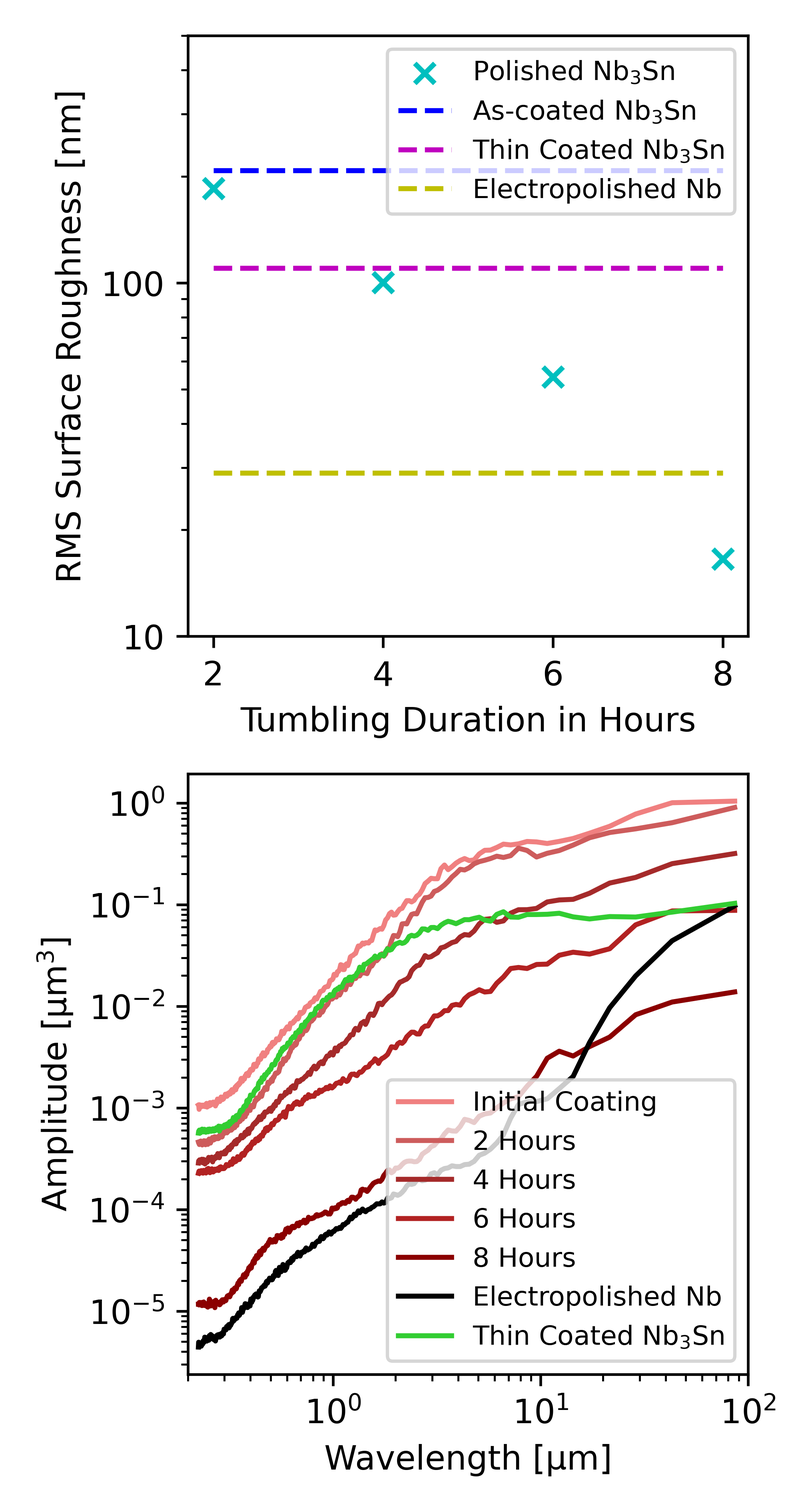
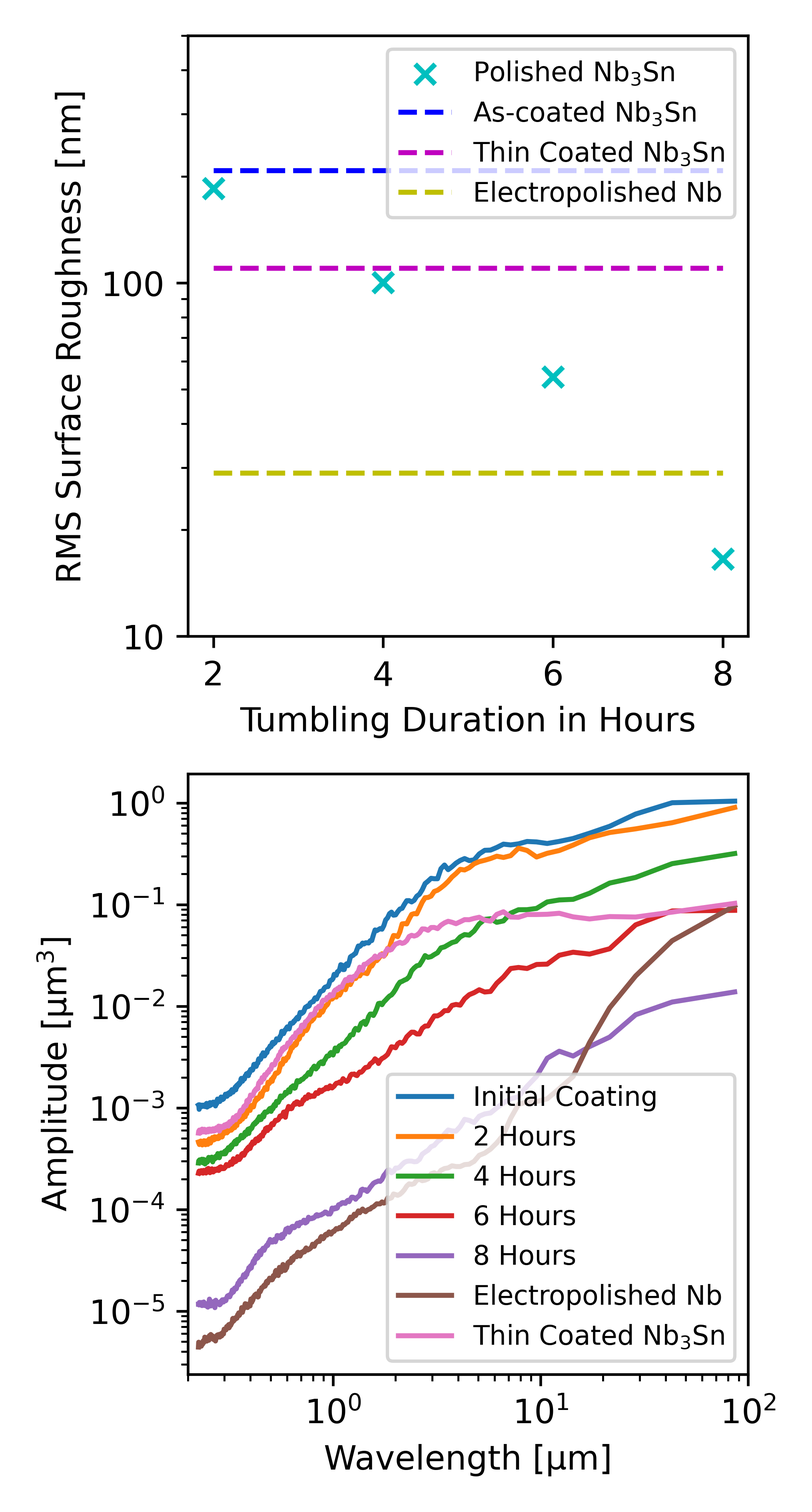
changed figure 3 colors and fixed spelling errors

diff --git a/src/doc.tex b/src/doc.tex
@@ -32,13 +32,13 @@ In this study we will show a new method of polishing for Nb\textsubscript{3}Sn c
 
 \section{Introduction}%
 \label{sec:Introduction}%
-Superconducting radiofrequency (SRF) cavities are an essential component of particle accelerators used in various fields of science and industry, including high-energy physics, material science, and medical isotope production\cite{boulware2019high}. These cavities accelerate charged particles to very high energies and can achieve higher accelerating gradients at continous operation than normal conducting cavities.
+Superconducting radiofrequency (SRF) cavities are an essential component of particle accelerators used in various fields of science and industry, including high-energy physics, material science, and medical isotope production\cite{boulware2019high}. These cavities accelerate charged particles to very high energies and can achieve higher accelerating gradients at continuous operation than normal conducting cavities.
 
-The performance of superconducting radio-frequency cavities is determined by the superconducting properties of the surface layer of the cavity. The low-temperature superconductor Nb\textsubscript{3}Sn has a higher superconducting transition temperature (T\textsubscript{c}), 18~K compared to 9~K, and a higher super-heating magnetic field (H\textsubscript{sh}), around 440 mT compared to 250~mT for the more commonly used niobium\cite{liarte2017theoretical, catelani2008temperature, lin2012effect, kubo2020superfluid}. SRF cavities coated with a layer of Nb\textsubscript{3}Sn can, therefore, achieve a much higher accelerating field, up to 100~MV/m in theory, and have a lower surface resistance than Nb SRF cavities at higher temperatures allowing for cavity operation at 4~K. Whereas Nb cavities are typically operated at 2~K e.g. the LCLS-II cryomodules\cite{galayda2018lcls}. These properties make Nb\textsubscript{3}Sn SRF cavities a promising research topic for future accelerators such as high-energy linacs or small-scale industrial accelerators.
+The performance of superconducting radio-frequency cavities is determined by the superconducting properties of the surface layer of the cavity. The low-temperature superconductor Nb\textsubscript{3}Sn has a higher superconducting transition temperature (T\textsubscript{c}), 18~K compared to 9~K, and a higher super-heating magnetic field (H\textsubscript{sh}), around 440~mT compared to 250~mT for the more commonly used niobium\cite{liarte2017theoretical, catelani2008temperature, lin2012effect, kubo2020superfluid}. SRF cavities coated with a layer of Nb\textsubscript{3}Sn can, therefore, achieve a much higher accelerating field, up to 100~MV/m in theory, and have a lower surface resistance than Nb SRF cavities at higher temperatures allowing for cavity operation at 4~K. Whereas Nb cavities are typically operated at 2~K e.g. the LCLS-II cryomodules\cite{galayda2018lcls}. These properties make Nb\textsubscript{3}Sn SRF cavities a promising research topic for future accelerators such as high-energy linacs or small-scale industrial accelerators.
 
-Nb\textsubscript{3}Sn cavities are typically manufactured by coating a Nb cavity with a thin film of Nb\textsubscript{3}Sn using Sn vapor-diffusion\cite{posen2017nb3sn, pudasaini2019growth, porter2018update}, exposing a Nb cavity to tin vapor at 1,100~°C to create Nb\textsubscript{3}Sn. The reaction forms a 2-3~µm thick Nb\textsubscript{3}Sn film with grains approximately 1~\unit{\micro\metre} large. The grains are faceted and the grain boundaries are thermally etched resulting in approximately 100-150~nm of surface roughness. 
+Nb\textsubscript{3}Sn cavities are typically manufactured by coating a Nb cavity with a thin film of Nb\textsubscript{3}Sn using Sn vapor-diffusion\cite{posen2017nb3sn, pudasaini2019growth, porter2018update}, exposing a Nb cavity to tin vapor at 1,100~°C to create Nb\textsubscript{3}Sn. The reaction forms a 2-3~µm thick Nb\textsubscript{3}Sn film with grains approximately 1~\unit{\micro\metre} large. The grains are faceted, and the grain boundaries are thermally etched resulting in approximately 100-150~nm of surface roughness. 
 
-Using the Sn vapor-diffusion coating technique\cite{posen2017nb3sn,pudasaini2019growth,eremeev2013development}, Nb\textsubscript{3}Sn cavities have only been able to reach a maximum accelerating gradient of 24~MV/m\cite{posen2021advances}, a result that was achieved using a thinner Nb\textsubscript{3}Sn coating which is smoother than the typical coating. However, this result has not been reproducible and the performance is lower than the theoretical maximum of Nb\textsubscript{3}Sn cavities.
+Using the Sn vapor-diffusion coating technique\cite{posen2017nb3sn,pudasaini2019growth,eremeev2013development}, Nb\textsubscript{3}Sn cavities have only been able to reach a maximum accelerating gradient of 24~MV/m\cite{posen2021advances}, a result that was achieved using a thinner Nb\textsubscript{3}Sn coating which is smoother than the typical coating. However, this result has not been reproducible, and the performance is lower than the theoretical maximum of Nb\textsubscript{3}Sn cavities.
 
 Surface roughness is thought to be one of the limiting factors of Nb\textsubscript{3}Sn SRF cavity performance. Surface roughness has been shown to be a cause of Q slope and quench in niobium cavities treated with buffered chemical polishing (BCP) due to sharp grain boundary steps.\cite{knobloch1999high, xu2016simulation} Simulations of the magnetic field near a typical Nb\textsubscript{3}Sn surface show that the magnetic field is increased by up to 60~percent in some areas compared to a smooth surface\cite{porter2016surface, kubo2015magnetic} and could be higher for particularly rough areas. By reducing the field enhancement caused by surface roughness, a corresponding increase in the cavity accelerating gradient can be expected. 
 
@@ -51,19 +51,19 @@ To circumvent these issues, we instead use a technique known as centrifugal barr
 \label{sec:samplestudy}%
 Since Nb\textsubscript{3}Sn is a relatively unexplored material, there are no established polishing parameters or abrasive materials to achieve a good surface finish. To allow for rapid iteration and microscopy surface analysis, we first perform polishing experiments on Nb\textsubscript{3}Sn samples. To evaluate the performance of CBP, the surface roughness of the polished samples is measured using confocal laser microscopy and the surface is analyzed using scanning and transmission electron microscopy (SEM and TEM). The material removal rate is measured using focused ion-beam tomography.
 
-The samples were prepared using the standard Nb\textsubscript{3}Sn coating procedure. 1~\unit{\centi\metre} disks are cut from a 4~\unit{\milli\metre} sheet of fine-grain, low RRR niobium. 100~\unit{\micro\metre} of material are removed using standard electropolishing\cite{saito2003development}, followed by 5~\unit{\micro\metre} of removal using cold EP leading to a root mean square surface roughness of 20~nm for the initial substrate.\cite{crawford2017extreme} The samples are coated with the standard FNAL coating procedure.\cite{posen2017nb3sn} This coating resulted in an approximately 3~\unit{\micro\metre} thick film with a grain size of 500~\unit{\nano\metre} and a surface roughness of 200~nm as shown in Fig.~\ref{fig:surfaceroughnessgraph}. The grain size of the Nb substrate had no effect on the film grain size.
+The samples were prepared using the standard Nb\textsubscript{3}Sn coating procedure. 1~\unit{\centi\metre} disks are cut from a 4~\unit{\milli\metre} sheet of fine-grain, low RRR niobium. 100~\unit{\micro\metre} of material are removed using standard electropolishing\cite{saito2003development}, followed by 5~\unit{\micro\metre} of removal using cold EP leading to a root-mean-square surface roughness of 20~nm for the initial substrate.\cite{crawford2017extreme} The samples are coated with the standard FNAL coating procedure.\cite{posen2017nb3sn} This coating resulted in an approximately 3~\unit{\micro\metre} thick film with a grain size of 500~\unit{\nano\metre} and a surface roughness of 200~nm as shown in Fig.~\ref{fig:surfaceroughnessgraph}. The grain size of the Nb substrate had no effect on the film grain size.
 %
 \subsection{Centrifugal Barrel Polishing}% 
 \label{subsec:CentrifugalBarrelPolishing}%
 Centrifugal barrel polishing (CBP) is another method used to polish SRF cavities utilizing an abrasive material to mechanically smooth the surface. Tumbling was first implemented for SRF cavities by KEK and Nomura Plating Co. in 1995\cite{higuchi1996investigation}. This method has been used to repair surface damage and to attain a very smooth surface in Nb SRF cavities\cite{cooper2012mirror, cooper2011centrifugal}. 
 
-As of yet, only very limited attempts to apply this technique to Nb\textsubscript{3}Sn cavities have been made. The technique uses a custom built tumbling machine that can fit up to 9-cell size 1.3~GHz cavities. When a cavity is mounted in the tumbling machine and filled with abrasive slurry, the rotating motion of the cavity accelerates the polishing media against the cavity surface at up to 59~\unit{\metre\per\square\second}. 
+As yet, only very limited attempts to apply this technique to Nb\textsubscript{3}Sn cavities have been made. The technique uses a custom-built tumbling machine that can fit up to 9-cell size 1.3~GHz cavities. When a cavity is mounted in the tumbling machine and filled with abrasive slurry, the rotating motion of the cavity accelerates the polishing media against the cavity surface at up to 59~\unit{\metre\per\square\second}. 
 
-The abrasive material determines the removal rate and minimum surface roughness attainable using CBP. Large-grit material is used to remove material quickly and smooth out large defects like pits and scratches while fine-grit material is used to microscopically smooth the surface. Since the roughness of as-coated Nb\textsubscript{3}Sn cavities is on the order of 100-200~nm, our experiments focus on using fine-grit materials. In this experiment, we use a colloidal nano-particle suspension, purchased from Allied High Tech Products Incorporated, as our abrasive material. 50~nm diameter alumina and 40~nm diameter silica nano-particles suspended in water were tested, but we found no discernible difference between the polishing characteristics of the two materials.
+The abrasive material determines the removal rate and minimum surface roughness attainable using CBP. Large-grit material is used to remove material quickly and smooth out large defects like pits and scratches while fine-grit material is used to microscopically smooth the surface. Since the roughness of as-coated Nb\textsubscript{3}Sn cavities is on the order of 100-200~nm, our experiments focus on using fine-grit materials. In this experiment, we use a colloidal nanoparticle suspension, purchased from Allied High Tech Products Incorporated, as our abrasive material. 50~nm diameter alumina and 40~nm diameter silica nanoparticles suspended in water were tested, but we found no discernible difference between the polishing characteristics of the two materials.
 
-Silicon containing ceramics, such as silica, are a major concern for contamination in the tin coating furnace, since they can release a significant amount of silicon at high temperatures into the furnace. Silicon also reacts with Nb\textsubscript{3}Sn to form to form poorly superconducting silicide phases. Alumina, in contrast, is thermally stable at higher temperatures. This is why alumina is typically used to electrically insulate wires such as thermocouples inside the furnace. For these reasons, the alumina abrassive particles are prefereable to avoid any risk of furnace contamination.
+Silicon containing ceramics, such as silica, are a major concern for contamination in the tin coating furnace, since they can release a significant amount of silicon at high temperatures into the furnace. Silicon also reacts with Nb\textsubscript{3}Sn to form poorly superconducting silicide phases. Alumina, in contrast, is thermally stable at higher temperatures. This is why alumina is typically used to electrically insulate wires such as thermocouples inside the furnace. For these reasons, the alumina abrasive particles are preferable to avoid any risk of furnace contamination.
 
-The nano-particle suspension was mixed with a large, soft material to act as a carrier. The purpose of the carrier material is to carry the nano-particles and to apply a force between them and the cavity surface. Two carrier materials were tested, 13~mm diameter wooden balls and 25~mm compressed wool cubes supplied by Congress Tools, Incorporated.
+The nanoparticle suspension was mixed with a large, soft material to act as a carrier. The purpose of the carrier material is to carry the nanoparticles and to apply a force between them and the cavity surface. Two carrier materials were tested, 13~mm diameter wooden balls and 25~mm compressed wool cubes supplied by Congress Tools, Incorporated.
 
 %
 \subsection{Coupon Cavity}%
@@ -120,7 +120,7 @@ The Nb\textsubscript{3}Sn samples were polished for different lengths of time ra
 
 By comparing the surface optical micrographs after different amounts of polishing shown in Fig.~\ref{fig:opticalsurfaceprofiles}, it is clear that material is preferentially removed from the highest point on the surface, causing the sharp peaks on the surface to be removed quickly while valleys are left untouched. The phenomenon is also clearly seen in SEM images of the samples shown in Fig.~\ref{fig:semimages} where the peaks on the grains can be seen to become smoother and then flat as more polishing is applied. This is different from EP, which preferentially smooths areas with high curvature including both peaks and valleys. Due to this different smoothing mechanism, surface roughness is minimized when the thickness of material removed is equal to the height difference between the highest and lowest point on the surface, which is around 1~µm. This is confirmed by the sample experiments, after 8~hours of polishing only the deepest valleys of the initial coating remain.
 
-The surface height maps are used to calculate the root mean square (RMS) surface roughness of the samples and is shown in Fig.~\ref{fig:surfaceroughnessgraph}. After 6~hours of polishing the surface roughness is comparable to the surface roughness of the well performing, thinly coated Nb\textsubscript{3}Sn coatings created at FNAL\cite{posen2021advances}. We also calculate the power spectral density (PSD) of the surface profiles. The PSD is an indicator of the surface roughness at different length scales, indicated by the wavelength\cite{xu2011enhanced, pudasaini2017surface}.
+The surface height maps are used to calculate the root-mean-square (RMS) surface roughness of the samples and is shown in Fig.~\ref{fig:surfaceroughnessgraph}. After 6~hours of polishing the surface roughness is comparable to the surface roughness of the well performing, thinly coated Nb\textsubscript{3}Sn coatings created at FNAL\cite{posen2021advances}. We also calculate the power spectral density (PSD) of the surface profiles. The PSD is an indicator of the surface roughness at different length scales, indicated by the wavelength\cite{xu2011enhanced, pudasaini2017surface}.
 
 This is verified by SEM micrographs of a thinly coated sample and a polished sample shown in Fig.~\ref{fig:semimages}A and D. After 8~hours of polishing, the surface roughness is comparable to a typical Nb surface after EP. This level of smoothness has never been achieved for Nb\textsubscript{3}Sn cavities until now. At this level of surface roughness, the performance degradation caused by field enhancement due to surface roughness should be greatly reduced.
 
@@ -148,7 +148,7 @@ The surface of the polished samples was analyzed using SEM and TEM to look for s
 \begin{figure}[t]%
 \centering%
 \includegraphics[width=0.8\columnwidth]{../doc/figs/Sample_Surface_Scratches.png}%
-\caption{SEM micrograph showing a Nb\textsubscript{3}Sn sample polished for 30 hours using wooden spheres and a colloidal abrasive suspension. Nb\textsubscript{3}Sn films polished using wooden spheres show microscopic scratches and cracks on the surface. A square hole is cut into the surface, visible in the top micrograph to expose a cross section of a crack. The cross section shows that the cracks penetrate deep into the film.}%
+\caption{SEM micrograph showing a Nb\textsubscript{3}Sn sample polished for 30 hours using wooden spheres and a colloidal abrasive suspension. Nb\textsubscript{3}Sn films polished using wooden spheres show microscopic scratches and cracks on the surface. A square hole is cut into the surface, visible in the top micrograph to expose a cross-section of a crack. The cross-section shows that the cracks penetrate deep into the film.}%
 \label{fig:samplesurfacescratches}%
 \end{figure}
 
@@ -204,17 +204,17 @@ After the polishing is applied, the cavity exhibits Q-slope (the quality factor 
 \label{sec:Discussion}%
 Using mechanical polishing, we are able to produce smooth Nb\textsubscript{3}Sn films with surface roughness less than 20~nm. This level of surface roughness has thus far been impossible to achieve using existing methods.\cite{posen2021advances,pudasaini2018studies,pudasaini2017post,hu2019reducing} We have also shown that this smoothing can be achieved with only a few hundred nanometers of material removal, much less than what would be required for chemical polishing methods.
 
-This study also shows that mechanical polishing can be used to improve the performance of Nb\textsubscript{3}Sn cavities when used in conjunction with a recoating procedure. There are several reasons why polishing a Nb\textsubscript{3}Sn might lead to performance improvements. The most obvious is the reduction in surface roughness, which reduces the field enhancement factor around sharp edges. This should lead to an decrease in Q-slope and an increase in quench field\cite{knobloch1999high, xu2016simulation} due to a reduction in the volume of normal conducting material interacting with the RF field. However, only one of these effects is experimentally measure, the increase in quench field, while the Q-slope remains mostly unchanged.
+This study also shows that mechanical polishing can be used to improve the performance of Nb\textsubscript{3}Sn cavities when used in conjunction with a recoating procedure. There are several reasons why polishing a Nb\textsubscript{3}Sn might lead to performance improvements. The most obvious is the reduction in surface roughness, which reduces the field enhancement factor around sharp edges. This should lead to a decrease in Q-slope and an increase in quench field\cite{knobloch1999high, xu2016simulation} due to a reduction in the volume of normal conducting material interacting with the RF field. However, only one of these effects is experimentally measured, the increase in quench field, while the Q-slope remains mostly unchanged.
 
-Another effect of polishing is a reduction in the film thickness. Nb\textsubscript{3}Sn is a poor thermal conductor compared to Nb, which can lead to a buildup of heat on the cavity surface. Higher surface temperatures lower the superheating critical magnetic field and increases BCS resistance causing a premature quench. By decreasing the film thickness, the thermal properties are improved which could lead to a higher quench field\cite{kulyavtsev2021simulations}. From our sample experiments we measured a removal of approximately 700~nm after 4~hours of polishing. Assuming a 3~\unit{\micro\metre} starting thickness and one dimensional heat diffusion through the film, this reduction could lead to a 30\% increase in the maximum heat flux. This effect is more significant if there is a point source of heat on the surface caused by a defect\cite{porter2021advancing}. In this case, the quench field is determined by the thermal stability of the defect. A reduction in film thickness can lead to better thermal stability and allow the cavity to reach higher gradients.
+Another effect of polishing is a reduction in the film thickness. Nb\textsubscript{3}Sn is a poor thermal conductor compared to Nb, which can lead to a buildup of heat on the cavity surface. Higher surface temperatures lower the super heating critical magnetic field and increases BCS resistance causing a premature quench. By decreasing the film thickness, the thermal properties are improved which could lead to a higher quench field\cite{kulyavtsev2021simulations}. From our sample experiments we measured a removal of approximately 700~nm after 4~hours of polishing. Assuming a 3~\unit{\micro\metre} starting thickness and one dimensional heat diffusion through the film, this reduction could lead to a 30\% increase in the maximum heat flux. This effect is more significant if there is a point source of heat on the surface caused by a defect\cite{porter2021advancing}. In this case, the quench field is determined by the thermal stability of the defect. A reduction in film thickness can lead to better thermal stability and allow the cavity to reach higher gradients.
 
-The immediate effect of polishing reduces the quality factor and accelerating gradient of the cavity despite improving the surface finish and decreasing film thickness. The exact cause of this performance degradation is not known. There are two types of defects that could cause a degredation in performance; pre-existing subsurface defects that were created during the initial coating of the cavity and defects that were created by the tumbling process.
+The immediate effect of polishing reduces the quality factor and accelerating gradient of the cavity despite improving the surface finish and decreasing film thickness. The exact cause of this performance degradation is not known. There are two types of defects that could cause a degradation in performance; pre-existing subsurface defects that were created during the initial coating of the cavity and defects that were created by the tumbling process.
 
 Pre-existing defects existing below the surface of the as coated film such as tin-depleted regions\cite{lee2018atomic} and other poorly conducting Nb\textsubscript{3}Sn phases are known to exist below the surface of the film and could be exposed to the surface by the removal of material through polishing. In a previous study, we have shown that tin-depleted regions and regions where the film becomes very thin are common in tin vapor-diffusion coated samples near the surface were they could be exposed by the polishing process\cite{10073616}. 
 
 Another possible cause for performance degradation is surface damage or other defects caused by the polishing process. Residual abrasive particles can be seen in the SEM images of the polished samples. Cleaning the surface removes most of the contamination, but there may still be some abrasive particles left on the surface, which could cause performance degradation. Surface damage such as cracks or scratches on the film could also degrade performance, although this seems unlikely as no surface damage was detected on the Nb\textsubscript{3}Sn samples polished with felt cubes. It is also possible that the oxide that forms on the Nb\textsubscript{3}Sn surface after polishing is unfavorable for performance compared to the oxide that forms in the furnace after the coating process.
 
-After the recoating process was applied, the cavity performance was improved over the unpolished state. We theorize that the re-coating procedure can eliminate both of the afformentioned defect types. A short, low-temperature coating is sufficient to diffuse more Sn into any exposed tin-depleted regions that may have been exposed during the polishing. It is also possible that the Sn vapor can diffuse into and repair any small cracks that may have been created during tumbling. Also, by raising the temperature of the Nb\textsubscript{3}Sn, the surface oxide layer created during the tumbling is dissolved and a new surface oxide is created when the cavity is exposed to air. Only the residual alumina particles are unaffected by the recoating, since they are thermally stable at 1000~\unit{\celsius}. However, it is difficult to determine the exact effects of the recoating without performing a thorough cutout analysis on the cavity. Further studies are under way to determine the cause of the performance degradation after mechanical polishing and the effects of the recoating procedure on the Nb\textsubscript{3}Sn surface.
+After the recoating process was applied, the cavity performance was improved over the unpolished state. We theorize that the re-coating procedure can eliminate both of the aforementioned defect types. A short, low-temperature coating is sufficient to diffuse more Sn into any exposed tin-depleted regions that may have been exposed during the polishing. It is also possible that the Sn vapor can diffuse into and repair any small cracks that may have been created during tumbling. Also, by raising the temperature of the Nb\textsubscript{3}Sn, the surface oxide layer created during the tumbling is dissolved, and a new surface oxide is created when the cavity is exposed to air. Only the residual alumina particles are unaffected by the recoating, since they are thermally stable at 1000~\unit{\celsius}. However, it is difficult to determine the exact effects of the recoating without performing a thorough cutout analysis on the cavity. Further studies are under way to determine the cause of the performance degradation after mechanical polishing and the effects of the recoating procedure on the Nb\textsubscript{3}Sn surface.
 
 It is also worth studying the recoating process on its own to determine if there is any effect on unpolished cavities. The extra Sn provided by the recoating could improve the stoichiometry of the surface and eliminate tin-deficient regions. Additionally, the effects of annealing the cavity at 1000~\unit{\celsius} could also be causing a performance increase.
 
@@ -226,7 +226,7 @@ We still do not know the effect residual abrasive particles have on the cavity p
 
 Another step that must be studied further is the recoating. The temperature, duration, and amount of Sn used are chosen to minimize any surface roughness caused by the recoating due to thermal etching mechanisms and also to prevent the growth of an excessively thick film which could negatively impact the thermal characteristics of the cavity. However, it is unclear how prominent thermal etching is or what other impact these parameters have on the film microstructure. Work still needs to be done to determine the optimum parameters for repairing the damage caused by the polishing while also minimizing any thermal etching and negative side effects. It is also worth investigating the effects of the recoating on unpolished cavities to see if any performance improvements can be made by introducing more Sn at a lower temperature after the initial coating is complete.
 
-The ability to smooth the surface of the Nb\textsubscript{3}Sn cavities also opens opportunities to experiment with coatings of different thicknesses and grain structure which can then be polished to achieve a smoother surface than is currently possible. Having precice control of the coating thickness aswell as the removal rate of the polishing step could allow for much thinner and smoother films with better thermal conduction properties. Future research should incorporate Nb\textsubscript{3}Sn coatings with different initial thicknesses.
+The ability to smooth the surface of the Nb\textsubscript{3}Sn cavities also opens opportunities to experiment with coatings of different thicknesses and grain structure which can then be polished to achieve a smoother surface than is currently possible. Having precise control of the coating thickness as well as the removal rate of the polishing step could allow for much thinner and smoother films with better thermal conduction properties. Future research should incorporate Nb\textsubscript{3}Sn coatings with different initial thicknesses.
 
 %
 \section{Conclusion}%

diff --git a/Source/Surface_Roughness_Graph/PSD_Analysis.py b/Source/Surface_Roughness_Graph/PSD_Analysis.py
@@ -11,7 +11,7 @@ import numpy as np
 import matplotlib as mpl
 import matplotlib.pyplot as plt
 
-data_folder = "C:/Users/Eric Viklund/Documents/Nb3Sn/Nb3Sn_Mechanical_Polishing/Mechanical_Polishing_Manuscript/Figures/Source/Surface_Roughness_Graph/Data/Height_Maps/"
+data_folder = "C:/Users/Eric Viklund/mechpol/Source/Surface_Roughness_Graph/Data/Height_Maps/"
 files = sorted(os.listdir(data_folder))
 pixel_size = 0.112072
 plt.figure()
